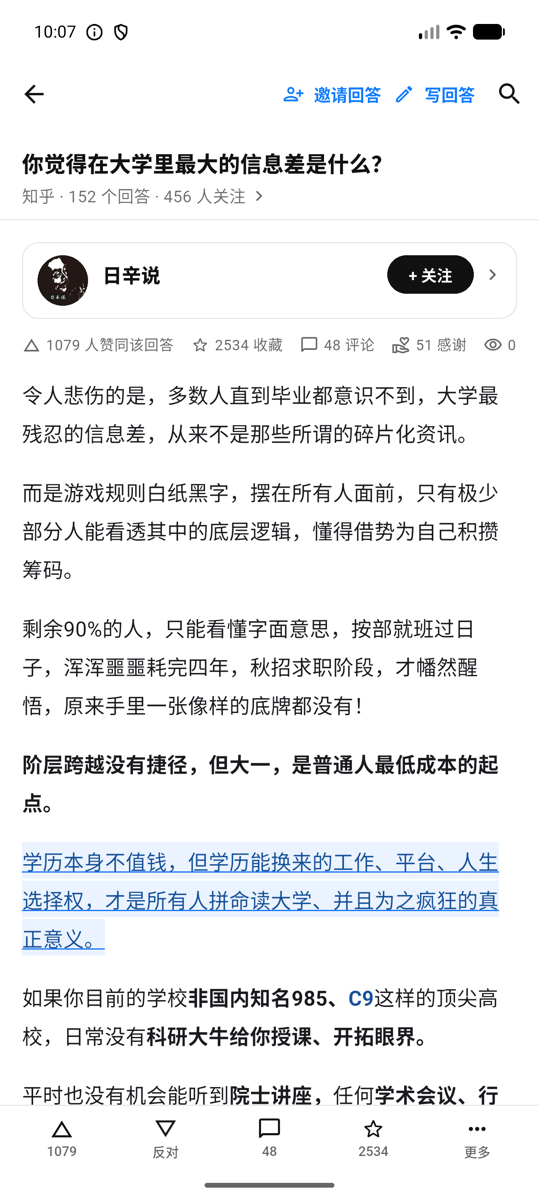
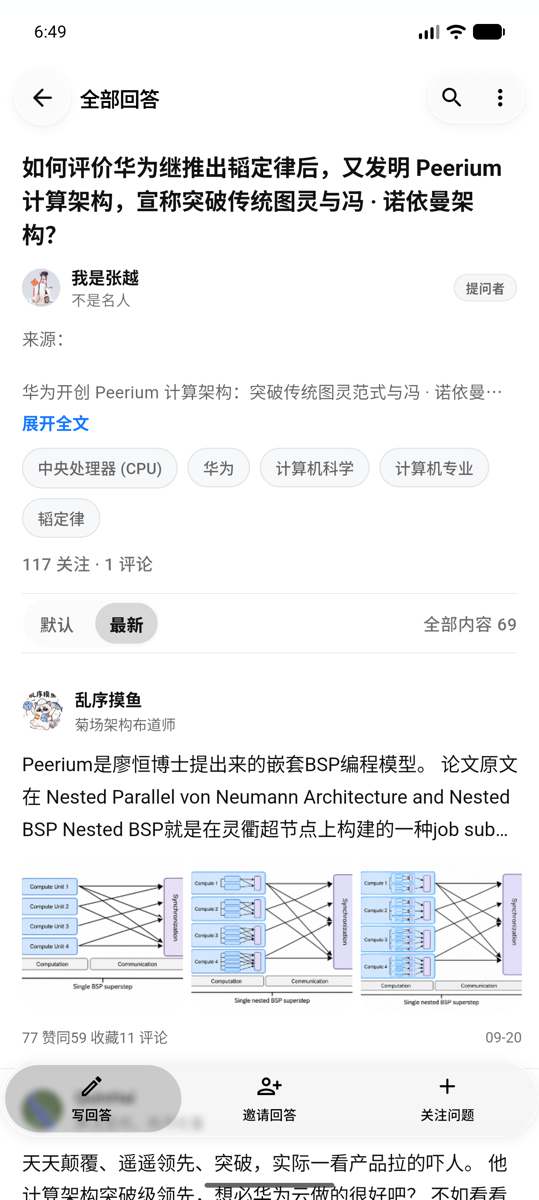
补充中性推荐与回答截图

diff --git a/README.md b/README.md
@@ -13,9 +13,14 @@
 以下截图来自 Android 手机模拟器，未包含登录凭据、手机号或账号资料。
 
 <p align="center">
-  <img src="docs/story.png" width="30%" alt="故事榜单">
-  <img src="docs/search.png" width="30%" alt="搜索页面">
-  <img src="docs/login.png" width="30%" alt="登录页面">
+  <img src="docs/recommend.png" width="23%" alt="推荐内容">
+  <img src="docs/answer.png" width="23%" alt="回答阅读页面">
+  <img src="docs/story.png" width="23%" alt="故事榜单">
+</p>
+
+<p align="center">
+  <img src="docs/search.png" width="23%" alt="搜索页面">
+  <img src="docs/login.png" width="23%" alt="登录页面">
 </p>
 
 ## 主要功能
